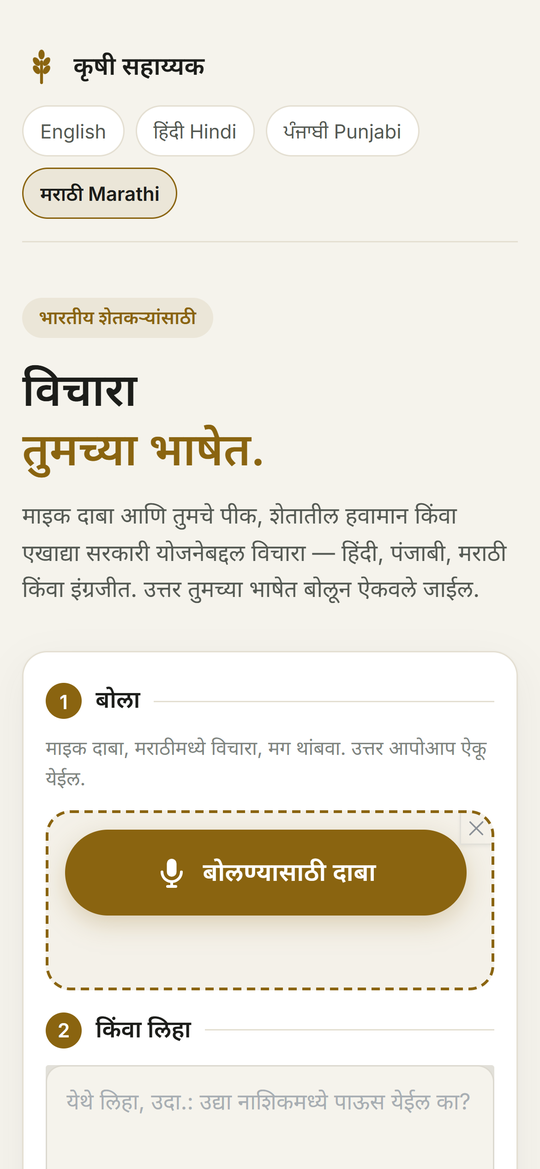
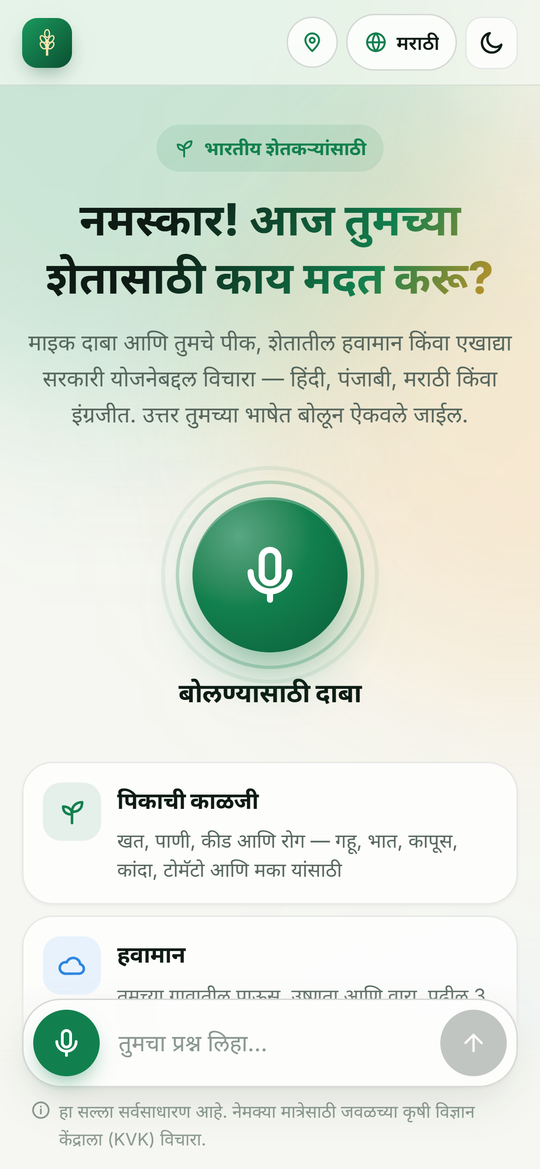
README: screenshots of the web app, taken from the live site
Welcome screen, an ask-back answered with one tap and a crop-stage card, Hindi in dark mode with the weather card, and the phone's microphone and recorder in Marathi.

diff --git a/README.md b/README.md
@@ -33,9 +33,9 @@
 </p>
 
 <p align="center">
-  <a href="https://multilingual-agri-ai-agent.onrender.com"><img src="assets/screenshots/app-light.png" alt="The live app: language buttons, 'Ask in your own language.' headline, three cards (crop care, weather, government schemes), a big 'Tap to speak' button, and a conversation where the assistant asks the wheat crop's age, the farmer replies '40 days', and the assistant answers with the fertilizer plan and speaks it" width="100%"></a>
+  <a href="https://multilingual-agri-ai-agent.onrender.com"><img src="assets/screenshots/app-welcome.png" alt="The live web app: the village chip and language switch (English, हिंदी, ਪੰਜਾਬੀ, मराठी) in the top bar, the greeting 'Namaste! How can I help your farm today?', a large green microphone labelled 'Tap to speak', three cards — crop care, weather, government schemes — and the question box at the bottom" width="100%"></a>
 </p>
-<p align="center"><sub>The live app at <a href="https://multilingual-agri-ai-agent.onrender.com">multilingual-agri-ai-agent.onrender.com</a>, unedited. The assistant needs the wheat's age before it can advise on fertilizer, so it asks; the farmer answers “40 days” and the earlier question is completed from memory.</sub></p>
+<p align="center"><sub>The live app at <a href="https://multilingual-agri-ai-agent.onrender.com">multilingual-agri-ai-agent.onrender.com</a>, unedited — one big microphone, the farmer's village and language in the top bar, and what it can help with.</sub></p>
 
 ---
 
@@ -59,19 +59,25 @@ reliable is found, it says so — a wrong dose can cost a farmer a season.
 
 ## 📸 See it in action
 
-Same live site, two more journeys. The page follows the device's light/dark
-setting, and picking a language switches the whole screen — not just the answers.
+Same live site. The page follows the device's light/dark setting, and picking a
+language switches the whole screen — not just the answers.
 
 <table>
   <tr>
-    <td width="52%" align="center" valign="top"><img src="assets/screenshots/app-dark-hindi.png" alt="The live app in dark mode with Hindi selected: the whole page is in Hindi, including the big mic button; asked whether it will rain in Pune tomorrow, it answers from the live forecast with onion crop care" width="100%"></td>
-    <td width="24%" align="center" valign="top"><img src="assets/screenshots/phone-mic.png" alt="The live app on a phone in Marathi: the first screen, with the big gold button reading बोलण्यासाठी दाबा (tap to speak)" width="100%"></td>
-    <td width="24%" align="center" valign="top"><img src="assets/screenshots/phone-marathi.png" alt="The live app on a phone in Marathi: documents needed for PM-KISAN, answered from the scheme documents and spoken, with sample questions below" width="100%"></td>
+    <td width="64%" align="center" valign="top"><img src="assets/screenshots/app-conversation.png" alt="A conversation in English: asked when to fertilize wheat, the assistant asks how many days old it is and offers one-tap answers; after '40 days' it answers with the urea dose and steps, a 'Crop knowledge' source chip and a card showing the Tillering stage at day 40 of 120, with Listen, Copy and WhatsApp buttons" width="100%"></td>
+    <td width="36%" align="center" valign="top"><img src="assets/screenshots/phone-mic.png" alt="The app on a phone in Marathi: the greeting, a large microphone labelled बोलण्यासाठी दाबा (tap to speak), and the question box" width="100%"></td>
   </tr>
   <tr>
-    <td align="center"><sub><b>Hindi, dark mode</b> — the whole page switches language; Pune's live forecast, answered and spoken in Hindi</sub></td>
-    <td align="center"><sub><b>Marathi, phone</b> — the mic comes first: “बोलण्यासाठी दाबा”</sub></td>
-    <td align="center"><sub><b>Marathi, phone</b> — PM-KISAN documents, from the scheme text</sub></td>
+    <td align="center"><sub><b>Ask-back, one tap, answer</b> — “how many days old?” → <b>40 days</b> → the dose, the source, and where the crop is in its life</sub></td>
+    <td align="center"><sub><b>Marathi, on a phone</b> — the mic comes first: “बोलण्यासाठी दाबा”</sub></td>
+  </tr>
+  <tr>
+    <td align="center" valign="top"><img src="assets/screenshots/app-dark-hindi.png" alt="Dark mode in Hindi: asked whether it will rain tomorrow, with the village set to Pune, the assistant answers in Hindi from the live forecast and shows a weather card with today's temperature and the next three days" width="100%"></td>
+    <td align="center" valign="top"><img src="assets/screenshots/phone-recording.png" alt="The recorder on a phone: 'ऐकत आहे… आता बोला' (listening, speak now) above a live green waveform, a timer, Cancel, and a red 'थांबवण्यासाठी दाबा' (tap to stop) button" width="100%"></td>
+  </tr>
+  <tr>
+    <td align="center"><sub><b>Hindi, dark mode</b> — the whole page switches language; the live forecast as a card, answered and spoken in Hindi</sub></td>
+    <td align="center"><sub><b>Listening</b> — a live waveform and one big red button to stop</sub></td>
   </tr>
 </table>
 
